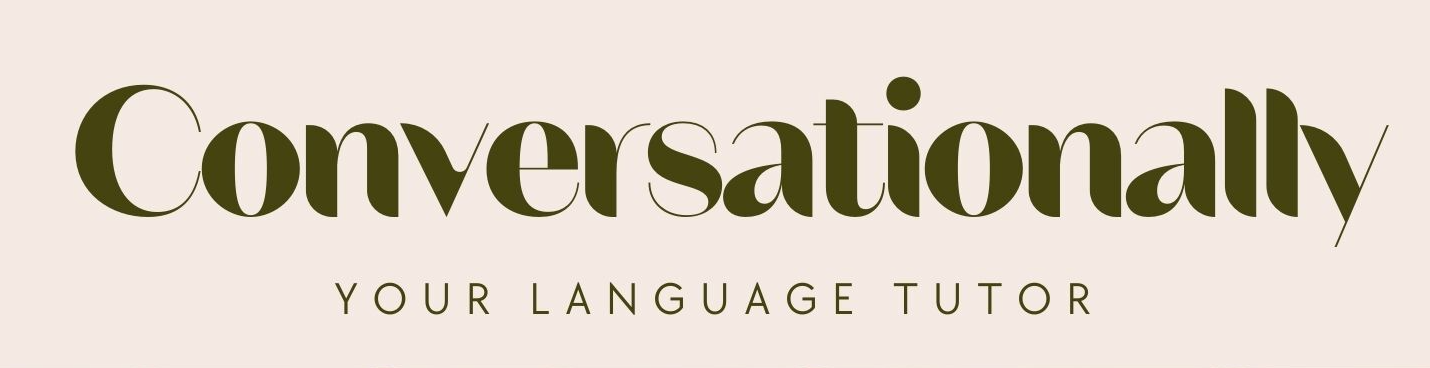
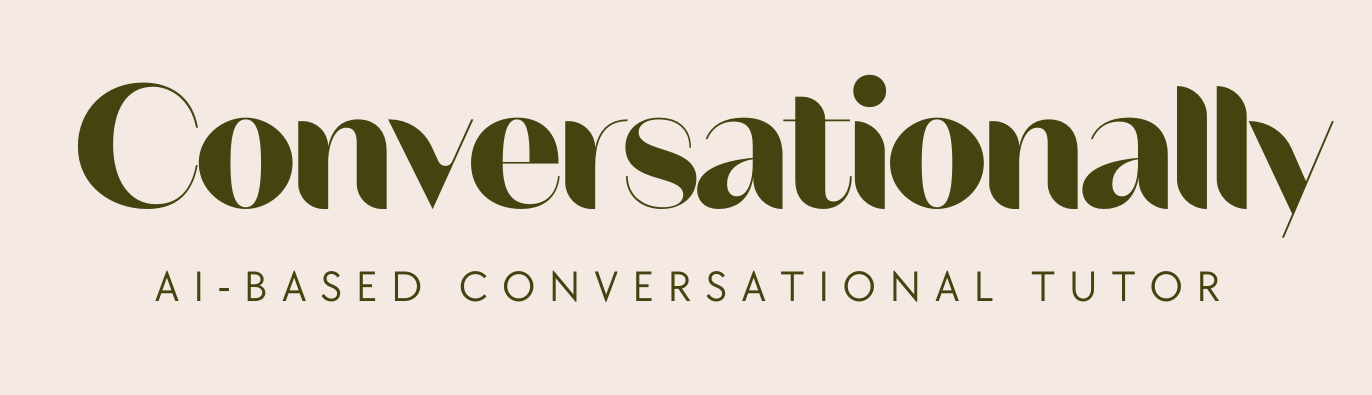
Updated summary and headers

Changed region(s): [[0.0306, 0.1793, 0.9796, 0.6277], [0.0918, 0.6875, 0.8878, 0.8668]]

diff --git a/src/ui-components/convOne/ActionProvider.js b/src/ui-components/convOne/ActionProvider.js
@@ -39,25 +39,29 @@ class ActionProvider {
     }
   }
 
+  addMicroLessonToSummary = (text) => {
+    let summary = JSON.parse(sessionStorage.getItem("summary"));
+    summary.push(text);
+    sessionStorage.setItem("summary", JSON.stringify(summary));
+  }
+
   saveToSummary = (message, botResponse) => {
     let summary = JSON.parse(sessionStorage.getItem("summary"))
-    console.log("Summary is %d long.")
     const gecResponse = JSON.parse(botResponse.message.gecResponse);
 
     if (gecResponse && gecResponse.length > 0) {
-      // NOTE: This logic handles just the first error. Assumption is that the model will never return
-      // more than one error.
-      const errorType = gecResponse[0].entity === "B-na" ? "number" : "gender";
-      let errStr = `The Word ${gecResponse[0].word} in "${message}" has a ${errorType} mismatch error.`;
       sessionStorage.setItem("atleastOneError", true);
-      summary.push(errStr);
+      for (let cur in gecResponse) {
+        const errorType = cur.entity === "B-na" ? "number" : "gender";
+        let errStr = `The Word ${cur.word} in "${message}" has a ${errorType} mismatch error.`;
+        summary.push(errStr);
+      }
       sessionStorage.setItem("summary", JSON.stringify(summary));
     }
   }
 
   showSummary = () => {
-    if (JSON.parse(sessionStorage.getItem("convEnded")) && JSON.parse(sessionStorage.getItem("atleastOneError"))) {
-
+    if (JSON.parse(sessionStorage.getItem("convEnded"))) {
       const summaryDialog = document.getElementsByClassName("summaryDialog")[0]
       // const summary = JSON.parse(sessionStorage.getItem("summary")).join("<br/>")
       const summary = "<p>" + JSON.parse(sessionStorage.getItem("summary")).join("</p><p>") + "</p>";
@@ -74,6 +78,10 @@ class ActionProvider {
     const hasCue = botResponse.message.cue !== null;
     const hasNext = botResponse.message.nextQuestion !== null;
     const reachedMicroGoal = this.microGoals[stepNumber];
+    if (reachedMicroGoal) {
+      this.addMicroLessonToSummary("Learnt how to " + reachedMicroGoal);
+    }
+
     if (hasCue) {
       // Display cue first
       const nextMessage = this.createChatBotMessage(
@@ -93,6 +101,9 @@ class ActionProvider {
 
     //Update step id
     sessionStorage.setItem("stepNumber", stepNumber + 1);
+
+    // Reset attemptNumber
+    sessionStorage.setItem("attemptNumber", 1);
   }
 
   promptForAttempt(botResponse) {
@@ -110,6 +121,11 @@ class ActionProvider {
 
   endConversation(botResponse) {
     if (botResponse.message.onTopic) {
+      let stepNumber = parseInt(sessionStorage.getItem("stepNumber"));
+      const reachedMicroGoal = this.microGoals[stepNumber];
+      if (reachedMicroGoal) {
+        this.addMicroLessonToSummary("Learnt how to " + reachedMicroGoal);
+      }
       const nextMessage = this.createChatBotMessage(
         botResponse.message.cue,
         { widget: "lessonCompleteMsg", }

diff --git a/src/ui-components/Nicetomeetyouheader.jsx b/src/ui-components/Nicetomeetyouheader.jsx
@@ -8,7 +8,7 @@
 import * as React from "react";
 import { getOverrideProps } from "@aws-amplify/ui-react/internal";
 import { Flex, Image } from "@aws-amplify/ui-react";
-import nice_to_meet_you_header from "./images/nice_to_meet_you_header.png"
+import lesson1_example from "./images/lesson1_example.png"
 export default function Nicetomeetyouheader(props) {
   const { overrides, ...rest } = props;
   return (
@@ -35,7 +35,7 @@ export default function Nicetomeetyouheader(props) {
         position="relative"
         padding="0px 0px 0px 0px"
         // objectFit="cover"
-        src={nice_to_meet_you_header}
+        src={lesson1_example}
         {...getOverrideProps(overrides, "nice_to_meet_you_header 1")}
       ></Image>
     </Flex>

diff --git a/src/ui-components/ConvOneActual.jsx b/src/ui-components/ConvOneActual.jsx
@@ -9,7 +9,7 @@ import ActionProvider from './convOne/ActionProvider';
 import MessageParser from './convOne/MessageParser';
 import config from './convOne/config';
 import SummaryPopup from './SummaryPopup';
-import nice_to_meet_you_lets_talk_header from "./images/nice_to_meet_you_lets_talk_header.png"
+import lesson1_actual from "./images/lesson1_actual.png"
 
 export default function ConvOneActual(props) {
   const { overrides, ...rest } = props;
@@ -72,7 +72,7 @@ export default function ConvOneActual(props) {
           position="relative"
           padding="0px 0px 0px 0px"
           // objectFit="cover"
-          src={nice_to_meet_you_lets_talk_header}
+          src={lesson1_actual}
         ></Image>
       </Flex>
 

diff --git a/src/ui-components/SummaryPopup.jsx b/src/ui-components/SummaryPopup.jsx
@@ -3,7 +3,7 @@ import React from 'react';
 export default function SummaryPopup() {
   return (
     <dialog className="summaryDialog" id="summaryPopup">
-      <h2>Summary of Errors</h2>
+      <h2>Conversation Summary</h2>
       <div className="summaryContainer" >
         <form>
           <p className="summaryPopupText">

diff --git a/src/ui-components/Conversationallyheader.jsx b/src/ui-components/Conversationallyheader.jsx
@@ -25,7 +25,7 @@ export default function Conversationallyheader(props) {
       {...rest}
     >
       <Image
-        width="480px"
+        width="640px"
         height="unset"
         display="block"
         gap="unset"
